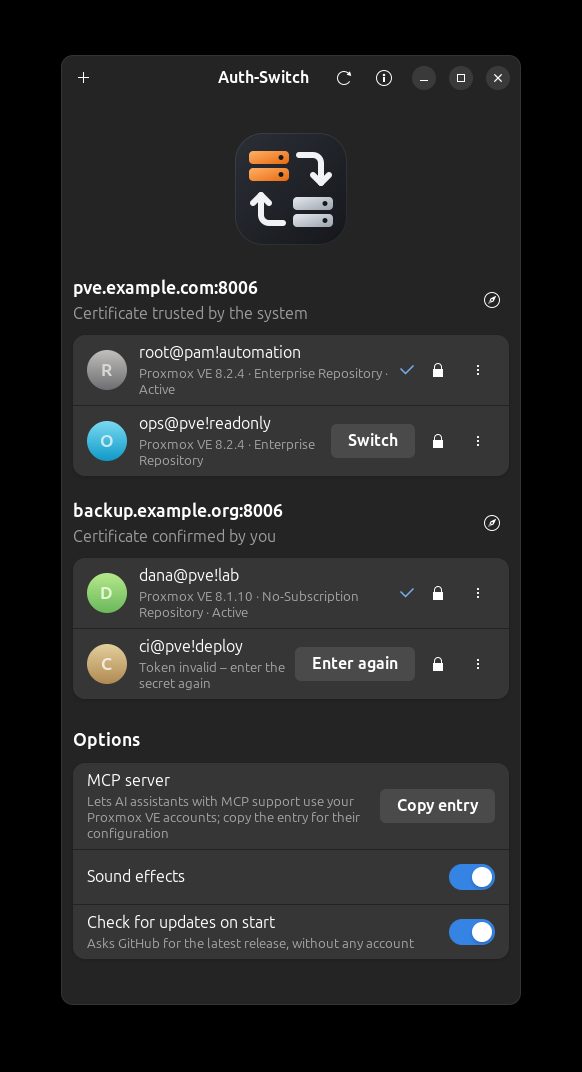
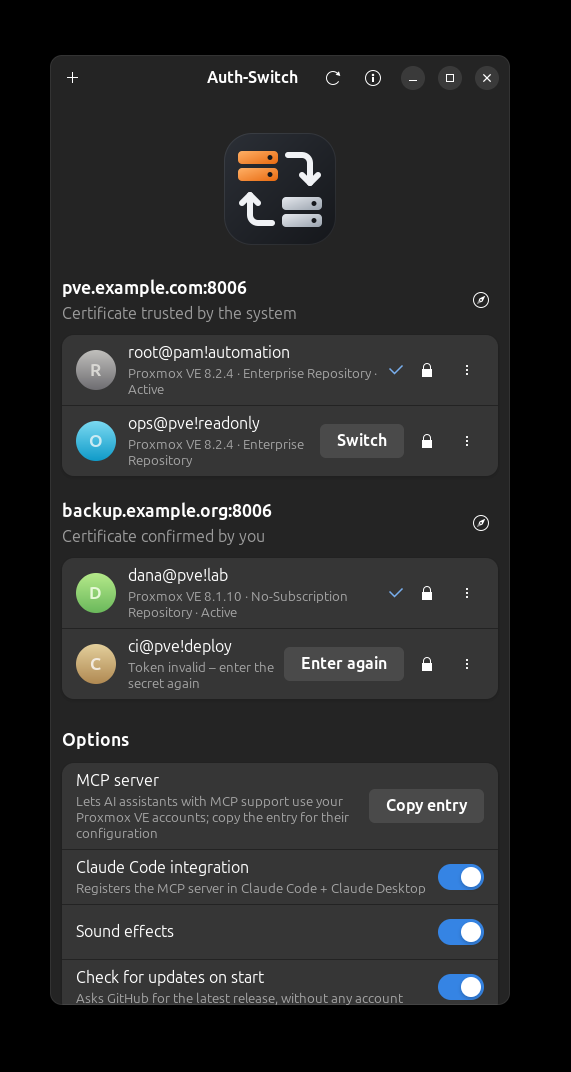
Add a Claude Code integration switch
When Claude Code or Claude Desktop is installed, the options show a
Claude Code integration switch, as in Git-Switch. It registers the MCP
server in Claude Code (through its command line tool or its settings
file) and in Claude Desktop, and removes it again. The leak check gains
"allow" phrases for restricted terms, so such an integration can name the
product.

Deutsch: Schalter für die Claude-Code-Integration. Ist Claude Code oder
Claude Desktop installiert, zeigen die Optionen wie in Git-Switch einen
Schalter Claude-Code-Integration. Er registriert den MCP-Server in Claude
Code (über dessen Kommandozeilenwerkzeug oder Einstellungsdatei) und in
Claude Desktop und entfernt ihn wieder. Die Leak-Prüfung erhält
"allow"-Phrasen für gesperrte Begriffe, damit eine solche Integration das
Produkt nennen darf.

diff --git a/authswitch/core.py b/authswitch/core.py
@@ -1068,6 +1068,84 @@ def mcp_command() -> list[str]:
     return [script] if script else [sys.executable, "-m", "authswitch.mcp"]
 
 
+def claude_cli() -> str | None:
+    return shutil.which("claude")
+
+
+def claude_code_file() -> Path:
+    base = os.environ.get("CLAUDE_CONFIG_DIR") or os.path.expanduser("~")
+    return Path(base) / ".claude.json"
+
+
+def claude_desktop_file() -> Path:
+    base = os.environ.get("XDG_CONFIG_HOME") or os.path.expanduser("~/.config")
+    return Path(base) / "Claude" / "claude_desktop_config.json"
+
+
+def claude_targets() -> list[str]:
+    """Which of Claude Code ("code", also behind the desktop app's Code tab) and Claude Desktop ("desktop") are installed."""
+    targets = []
+    if claude_cli() or claude_code_file().exists():
+        targets.append("code")
+    if claude_desktop_file().parent.is_dir():
+        targets.append("desktop")
+    return targets
+
+
+def _read_json(path: Path) -> dict:
+    try:
+        data = json.loads(path.read_text(encoding="utf-8"))
+    except (OSError, ValueError):
+        return {}
+    return data if isinstance(data, dict) else {}
+
+
+def _set_mcp_entry(path: Path, entry: dict | None) -> None:
+    """Add or remove our entry in a client's configuration, keeping everything else and the file's mode."""
+    config = _read_json(path) if path.exists() else {}
+    servers = config.setdefault("mcpServers", {})
+    if entry is None:
+        servers.pop(MCP_NAME, None)
+    else:
+        servers[MCP_NAME] = entry
+    path.parent.mkdir(parents=True, exist_ok=True)
+    temporary = path.with_name(path.name + f".{APP}-tmp")
+    temporary.write_text(json.dumps(config, indent=2), encoding="utf-8")
+    temporary.chmod(path.stat().st_mode & 0o777 if path.exists() else 0o600)
+    os.replace(temporary, path)
+
+
+def claude_registered() -> bool:
+    files = {"code": claude_code_file(), "desktop": claude_desktop_file()}
+    return any(MCP_NAME in (_read_json(files[target]).get("mcpServers") or {}) for target in claude_targets())
+
+
+def claude_register() -> None:
+    command = mcp_command()
+    for target in claude_targets():
+        if target == "code" and claude_cli():
+            subprocess.run(["claude", "mcp", "remove", "--scope", "user", MCP_NAME], capture_output=True, timeout=60)
+            proc = subprocess.run(
+                ["claude", "mcp", "add", "--scope", "user", MCP_NAME, "--", *command], capture_output=True, text=True, timeout=60
+            )
+            if proc.returncode != 0:
+                raise AuthError((proc.stderr or proc.stdout).strip() or "claude mcp add failed")
+        elif target == "code":
+            _set_mcp_entry(claude_code_file(), {"type": "stdio", "command": command[0], "args": command[1:], "env": {}})
+        else:
+            _set_mcp_entry(claude_desktop_file(), {"command": command[0], "args": command[1:]})
+
+
+def claude_unregister() -> None:
+    for target in claude_targets():
+        if target == "code" and claude_cli():
+            subprocess.run(["claude", "mcp", "remove", "--scope", "user", MCP_NAME], capture_output=True, timeout=60)
+        elif target == "code":
+            _set_mcp_entry(claude_code_file(), None)
+        else:
+            _set_mcp_entry(claude_desktop_file(), None)
+
+
 def mcp_client_config() -> str:
     """The ``mcpServers`` entry most MCP clients accept in their configuration file."""
     command = mcp_command()

diff --git a/tests/test_core.py b/tests/test_core.py
@@ -570,6 +570,57 @@ class SshAccessTest(unittest.TestCase):
         self.assertFalse(sshaccess._own_dir().exists())
 
 
+class ClaudeIntegrationTest(unittest.TestCase):
+    def setUp(self):
+        self.dir = tempfile.TemporaryDirectory()
+        self.addCleanup(self.dir.cleanup)
+        self.root = Path(self.dir.name)
+        patches = [
+            mock.patch.dict(os.environ, {"CLAUDE_CONFIG_DIR": self.dir.name, "XDG_CONFIG_HOME": self.dir.name}),
+            mock.patch.object(core, "claude_cli", return_value=None),
+            mock.patch.object(core, "mcp_command", return_value=["/usr/bin/auth-switch-mcp"]),
+        ]
+        for patcher in patches:
+            patcher.start()
+            self.addCleanup(patcher.stop)
+
+    def test_nothing_installed(self):
+        self.assertEqual(core.claude_targets(), [])
+
+    def test_register_in_code_and_desktop(self):
+        (self.root / ".claude.json").write_text(json.dumps({"numStartups": 3, "mcpServers": {"other": {"command": "x"}}}))
+        (self.root / ".claude.json").chmod(0o600)
+        (self.root / "Claude").mkdir()
+        desktop = self.root / "Claude" / "claude_desktop_config.json"
+        desktop.write_text(json.dumps({"preferences": {"a": 1}, "mcpServers": {"blender": {"command": "b"}}}))
+        self.assertEqual(core.claude_targets(), ["code", "desktop"])
+        self.assertFalse(core.claude_registered())
+        core.claude_register()
+        code = json.loads((self.root / ".claude.json").read_text())
+        self.assertEqual(code["numStartups"], 3)
+        self.assertEqual(code["mcpServers"]["auth-switch"]["command"], "/usr/bin/auth-switch-mcp")
+        self.assertIn("other", code["mcpServers"])
+        self.assertEqual((self.root / ".claude.json").stat().st_mode & 0o777, 0o600)
+        settings = json.loads(desktop.read_text())
+        self.assertEqual(settings["mcpServers"]["auth-switch"], {"command": "/usr/bin/auth-switch-mcp", "args": []})
+        self.assertEqual(settings["preferences"], {"a": 1})
+        self.assertTrue(core.claude_registered())
+        core.claude_unregister()
+        self.assertNotIn("auth-switch", json.loads(desktop.read_text())["mcpServers"])
+        self.assertNotIn("auth-switch", json.loads((self.root / ".claude.json").read_text())["mcpServers"])
+        self.assertFalse(core.claude_registered())
+
+    def test_integration_lines_are_exempt_from_restricted_terms(self):
+        context = leaks.Context()
+        rules = {"terms": ["Acme"], "allow": ["Acme Tools", ".acme.json"]}
+        leaks._restricted_settings(context, {"restricted": rules})
+        self.assertEqual(leaks.scan_text('title=_("Acme Tools integration")', "t", context), [])
+        self.assertEqual(leaks.scan_text("Path.home() / '.acme.json'", "t", context), [])
+        attribution = leaks.scan_text("Co-Authored-By: Acme Tools <x@y.invalid>", "t", context)
+        self.assertEqual([f.kind for f in attribution], ["restricted-attribution"])
+        self.assertEqual([f.kind for f in leaks.scan_text("asked acme about it", "t", context)], ["restricted-term"])
+
+
 class DiscoveryTest(unittest.TestCase):
     def test_local_networks(self):
         interfaces = [

diff --git a/authswitch/gui.py b/authswitch/gui.py
@@ -1255,6 +1255,17 @@ class Window(Adw.ApplicationWindow):
         mcp_row.add_suffix(button)
         self.options.add(mcp_row)
 
+        targets = core.claude_targets()
+        if targets:
+            names = {"code": _("Claude Code"), "desktop": _("Claude Desktop")}
+            claude_row = Adw.SwitchRow(
+                title=_("Claude Code integration"),
+                subtitle=_("Registers the MCP server in {apps}").format(apps=" + ".join(names[t] for t in targets)),
+                active=core.claude_registered(),
+            )
+            claude_row.connect("notify::active", self.on_claude_toggled)
+            self.options.add(claude_row)
+
         sound_row = Adw.SwitchRow(title=_("Sound effects"), active=bool(self.settings["sounds"]))
         sound_row.connect("notify::active", self.on_sounds_toggled)
         self.options.add(sound_row)
@@ -1267,6 +1278,26 @@ class Window(Adw.ApplicationWindow):
         update_row.connect("notify::active", self.on_updates_toggled)
         self.options.add(update_row)
         self.page.add(self.options)
+
+    def on_claude_toggled(self, row, _pspec) -> None:
+        if getattr(row, "busy", False):
+            return
+        register = row.get_active()
+        row.set_sensitive(False)
+
+        def done(_result, error):
+            row.set_sensitive(True)
+            if error:
+                row.busy = True
+                row.set_active(not register)
+                row.busy = False
+                self.explain(_("Claude Code integration could not be changed"), str(error))
+            elif register:
+                self.toast(_("MCP server registered; restart Claude Code to load it"), "success")
+            else:
+                self.toast(_("MCP server removed from Claude Code"))
+
+        run_async(core.claude_register if register else core.claude_unregister, done)
 
     def look_for_update(self) -> None:
         def done(latest, _error):

diff --git a/authswitch/leaks.py b/authswitch/leaks.py
@@ -57,6 +57,8 @@ class Context:
     restricted_files: set[str] = field(default_factory=set)
     restricted_repository: str = ""
     restricted_label: str = ""
+    # Phrases in which a term is fine, e.g. the name of a product the code integrates with.
+    restricted_phrases: list[str] = field(default_factory=list)
 
     @property
     def restricting(self) -> bool:
@@ -87,6 +89,7 @@ def _restricted_settings(context: "Context", settings: dict) -> None:
     if terms:
         context.restricted_terms = re.compile(r"\b(?:" + "|".join(map(re.escape, terms)) + r")\b", re.IGNORECASE)
     context.restricted_files = {str(name) for name in rules.get("files") or [] if str(name).strip()}
+    context.restricted_phrases = [str(phrase).lower() for phrase in rules.get("allow") or [] if str(phrase).strip()]
     if rules.get("repository"):
         context.restricted_repository = repository_id(str(rules["repository"]))
         context.restricted_label = str(rules["repository"])
@@ -161,7 +164,7 @@ def scan_line(line: str, where: str, context: Context) -> list[Finding]:
         term = context.restricted_terms.search(line)
         if term and _ATTRIBUTION.search(line):
             add("restricted-attribution", PRIVATE, term.group(0), _restricted_detail(context, _("An attribution line naming {term}."), term.group(0)))
-        elif term:
+        elif term and not any(phrase in line.lower() for phrase in context.restricted_phrases):
             add("restricted-term", PRIVATE, term.group(0), _restricted_detail(context, _("A mention of {term}."), term.group(0)))
     return found
 

diff --git a/authswitch/__init__.py b/authswitch/__init__.py
@@ -1,3 +1,3 @@
 """auth-switch – a small GUI and MCP server for switching Proxmox VE accounts."""
 
-__version__ = "0.3.13"
+__version__ = "0.3.14"

diff --git a/README.de.md b/README.de.md
@@ -53,14 +53,14 @@ Schlüsselbund (GNOME Keyring, KWallet o. Ä.).
 [Release-Seite](../../releases) herunterladen und installieren:
 
 ```bash
-sudo apt install ./auth-switch_0.3.13_all.deb
+sudo apt install ./auth-switch_0.3.14_all.deb
 ```
 
 **Andere Distributionen** – PyGObject, GTK 4, libadwaita und libsecret über den
 Paketmanager installieren, dann:
 
 ```bash
-pipx install --system-site-packages auth_switch-0.3.13-py3-none-any.whl
+pipx install --system-site-packages auth_switch-0.3.14-py3-none-any.whl
 ```
 
 ## Konto hinzufügen
@@ -238,8 +238,10 @@ System vertraut.
 ## MCP-Server
 
 Im Fenster **Eintrag kopieren** drücken und in die Konfiguration deines
-MCP-Clients einfügen oder `auth-switch-mcp` als stdio-Server registrieren.
-Tools:
+MCP-Clients einfügen oder `auth-switch-mcp` als stdio-Server registrieren. Ist
+Claude Code oder Claude Desktop installiert, zeigt das Fenster zusätzlich einen
+Schalter **Claude-Code-Integration**, der den Server in beiden registriert und
+wieder entfernt. Tools:
 
 | Tool | Zweck |
 | --- | --- |

diff --git a/README.md b/README.md
@@ -52,14 +52,14 @@ keyring (GNOME Keyring, KWallet or similar).
 [releases page](../../releases) and install it:
 
 ```bash
-sudo apt install ./auth-switch_0.3.13_all.deb
+sudo apt install ./auth-switch_0.3.14_all.deb
 ```
 
 **Other distributions** – install PyGObject, GTK 4, libadwaita and libsecret
 from your package manager, then:
 
 ```bash
-pipx install --system-site-packages auth_switch-0.3.13-py3-none-any.whl
+pipx install --system-site-packages auth_switch-0.3.14-py3-none-any.whl
 ```
 
 ## Adding an account
@@ -225,7 +225,9 @@ recommended.
 ## MCP server
 
 Press **Copy entry** in the window and add it to the configuration of your MCP
-client, or register `auth-switch-mcp` as a stdio server. Tools:
+client, or register `auth-switch-mcp` as a stdio server. If Claude Code or
+Claude Desktop is installed, the window also shows a **Claude Code integration**
+switch that registers the server in both and removes it again. Tools:
 
 | Tool | Purpose |
 | --- | --- |
